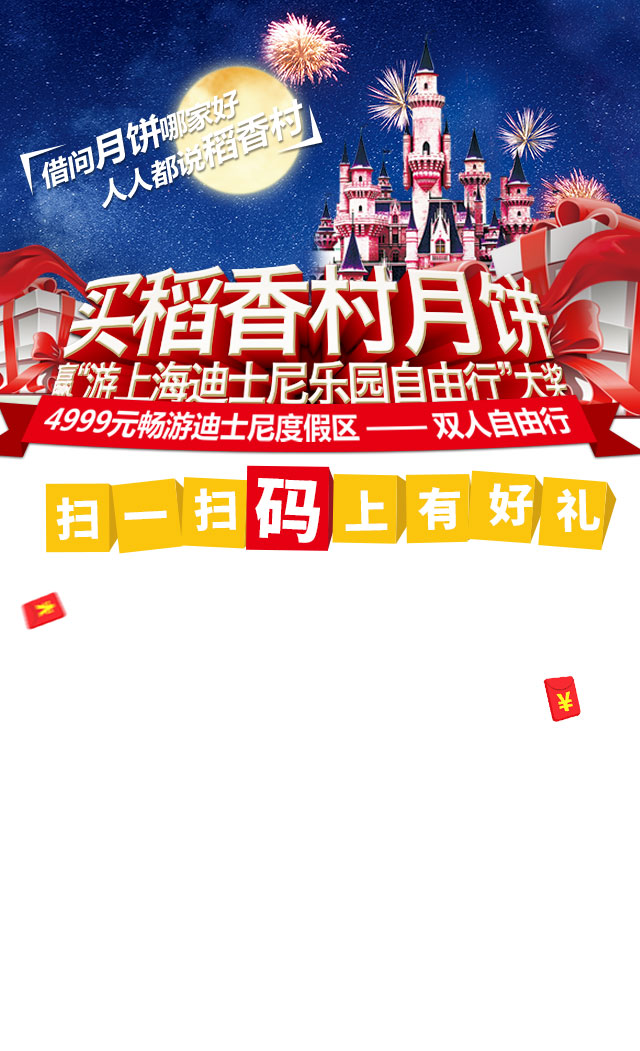
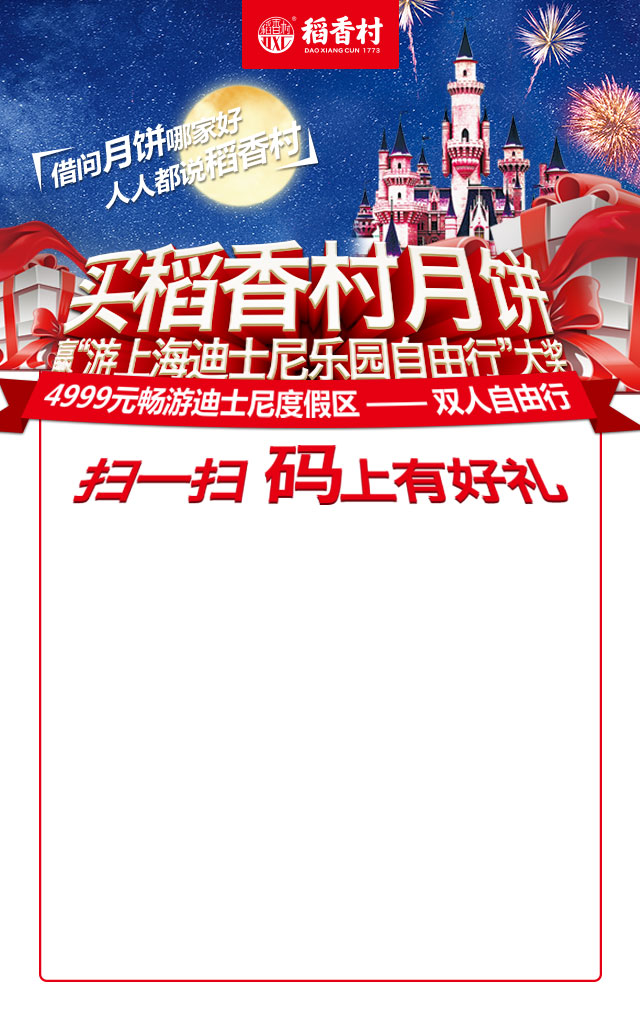
更新样式

diff --git a/weapp/apps/customerized_apps/scanlottery/templates/webapp/m_scanlottery_page.html b/weapp/apps/customerized_apps/scanlottery/templates/webapp/m_scanlottery_page.html
@@ -17,19 +17,22 @@
         background-size: 100% auto;
     }
     .wui-scanlottery-title {
-        height: 17rem;
+        height: 14rem;
     }
     .wui-scanlottery-container {
-        width: 70%;
+        width: 100%;
+    }
+    .wui-inputBlock {
         margin: 0 auto;
+        width: 70%;
         text-align: center;
         font-size: 0;
     }
-    .wui-scanlottery-container > div {
+    .wui-scanlottery-container .wui-inputBlock> div {
         text-align: center;
         margin-bottom: 20px;
     }
-    .wui-scanlottery-container .wui-scanlottery-btn {
+    .wui-scanlottery-container .wui-inputBlock .wui-scanlottery-btn {
         border:none;
         border-radius: .1rem;
         height: 3rem;
@@ -42,8 +45,8 @@
         font-family: "黑体";
         margin-top: 10px;
     }  
-    .wui-scanlottery-container input {
-        border: 1px solid #dbdbdb;
+    .wui-scanlottery-container .wui-inputBlock input {
+        border: 1px solid #e60012;
         box-sizing: border-box;
         font-size: 1.1rem;
         height: 3rem;
@@ -54,29 +57,29 @@
         padding: 0 0 0 1rem;
         font-family: "黑体";
     }
-    .wui-scanlottery-container .wui-verify-input {
+    .wui-scanlottery-container .wui-inputBlock .wui-verify-input {
         width: 37%;
         margin-right: 5%;
     }
-    .wui-scanlottery-container .wui-verify-container {
+    .wui-scanlottery-container .wui-inputBlock .wui-verify-container {
         width: 28%;
         height: 3rem;
         display: inline-block;
         vertical-align: top;
     }
-    .wui-scanlottery-container .wui-verify-refresh {
+    .wui-scanlottery-container .wui-inputBlock .wui-verify-refresh {
         width: 100%;
         height: 2.4rem;
         margin-top: 5px;
         pointer-events: none; 
     }
-    .wui-scanlottery-container > p {
+    .wui-scanlottery-container .wui-inputBlock > p {
         margin-top: 2rem;
         font-size: 1rem;
         text-align: left;
         color: #24326a;
     }
-    .wui-verify-btn {
+    .wui-inputBlock .wui-verify-btn {
         font-size: 1rem;
         height: 3rem;
         line-height: 3rem;
@@ -103,19 +106,27 @@
         background-size: 100% 100%;
     }
     .wui-guide .wui-guide-scan-desc {
-        height: 26%;
-        width: 85%;
-        margin: 0 auto; 
+        height: 11%;
+        width: 82%;
+        margin: 3rem auto 0; 
         background: url(/termite_static/img/component/scanlottery/scan_desc.png) no-repeat;
         background-size: 100% 100%;
+    }
+    .wui-scanlottery-container .wui-guide-item {
+        text-align: right;
+        margin-top: 10px;
+        padding-right: 15px;
+    }
+    .wui-guide-item img{
+        pointer-events: none;
     }
     @media screen and (max-width: 320px) {
         .wui-guide .wui-guide-top {
             height: 55%;
         }
         .wui-guide .wui-guide-scan-desc {
-            width: 90%;
-            height: 30%;
+            width: 82%;
+            height: 11%;
         }
         .wui-guide .wui-guide-scan {
             height: 19%;
@@ -124,7 +135,7 @@
             font-size: 1rem;
         }        
         .wui-scanlottery-title {
-            height: 13rem;
+            height: 10rem;
         }  
     }
     @media screen and (max-width: 320px) and (max-height: 480px) {
@@ -132,21 +143,19 @@
             background: #fff!important;            
         }
         .wui-guide .wui-guide-top {
-            height: 60%;
+            height: 56%;
         }
         .wui-guide .wui-guide-scan-desc {
-            width: 90%;
-            height: 33%;
+            width: 85%;
+            height: 13%;
+            margin-top: 1rem;
         }
         .wui-guide .wui-guide-scan {
             height: 22%;
         }
         .wui-verify-btn {
             font-size: 1rem;
-        }        
-        .wui-scanlottery-title {
-            height: 13rem;
-        }         
+        }              
     }
 </style>
 {% endblock %}
@@ -155,21 +164,26 @@
 <div class="wui-scanlottery-page wui-hidden wa-scanlottery-page">
     <div class="wui-scanlottery-title"></div>
     <div class="wui-scanlottery-container wa-scanlottery-container">
-        <div> 
-            <input type="text" placeholder="请输入姓名" class="wui-excode-input wa-name">
-        </div>
-        <div> 
-            <input type="text" placeholder="请输入手机号" class="wui-phone-input wa-phone" maxlength="11">
-        </div>
-        <div>
-            <input type="text" placeholder="验证码" class="wui-verify-input wa-verify-input" maxlength="4">
-            <div class="wui-verify-container">
-                <img class="codeimg wui-verify-refresh" src="/m/apps/scanlottery/api/m_captcha/?webapp_owner_id={{ request.webapp_owner_id}}"/>
+        <div class="wui-inputBlock">
+            <div> 
+                <input type="text" placeholder="请输入姓名" class="wui-excode-input wa-name">
             </div>
-            <span class="wa-verify-btn wui-verify-btn">点击刷新</span>
+            <div> 
+                <input type="text" placeholder="请输入手机号" class="wui-phone-input wa-phone" maxlength="11">
+            </div>
+            <div>
+                <input type="text" placeholder="验证码" class="wui-verify-input wa-verify-input" maxlength="4">
+                <div class="wui-verify-container">
+                    <img class="codeimg wui-verify-refresh" src="/m/apps/scanlottery/api/m_captcha/?webapp_owner_id={{ request.webapp_owner_id}}"/>
+                </div>
+                <span class="wa-verify-btn wui-verify-btn">点击刷新</span>
+            </div>
+            <button type="button" class="wui-submit wa-submit wui-scanlottery-btn">立即抽奖</button>
+            <p>注：请填写真实信息，参与抽奖，这样  才能保证奖品顺利到达您的手中。</p>
         </div>
-        <button type="button" class="wui-submit wa-submit wui-scanlottery-btn">立即抽奖</button>
-        <p>注：填写真实信息，参与抽奖，否则您的奖品将无法获取哦。</p>
+        <div class="wui-guide-item">
+            <img src="/termite_static/img/component/scanlottery/scan_guide_item.png" width='133px' height='90px'>
+        </div>
     </div>
 </div>
 <div class="wui-guide wa-guide">
@@ -190,9 +204,9 @@
         });
 
         //扫码
-        wx.ready(function(){
+        // wx.ready(function(){
             $('.wa-guide-scan').on('click' ,scanQrcode);
-        });
+        // });
 
         //立即抽奖
         $('.wa-submit').on('click', function(){
@@ -241,32 +255,30 @@
     });
 
     function scanQrcode(){
-        wx.scanQRCode({
-            needResult: 1, // 默认为0，扫描结果由微信处理，1则直接返回扫描结果，
-            scanType: ["qrCode"], // 可以指定扫二维码还是一维码，默认二者都有
-            success: function (res) {
-                var result = res.resultStr; // 当needResult 为 1 时，扫码返回的结果
-                scanCode = result.substr(result.length - 20);
-                W.getApi().call({
-                    app: 'm/apps/scanlottery',
-                    resource: 'scan_code_test',
-                    method: 'get',
-                    args: {
-                        webapp_owner_id: W.webappOwnerId,
-                        scan_code: scanCode
-                    },
-                    success: function(data){
+        // wx.scanQRCode({
+        //     needResult: 1, // 默认为0，扫描结果由微信处理，1则直接返回扫描结果，
+        //     scanType: ["qrCode"], // 可以指定扫二维码还是一维码，默认二者都有
+        //     success: function (res) {
+        //         var result = res.resultStr; // 当needResult 为 1 时，扫码返回的结果
+        //         scanCode = result.substr(result.length - 20);
+        //         W.getApi().call({
+        //             app: 'm/apps/scanlottery',
+        //             resource: 'scan_code_test',
+        //             method: 'get',
+        //             args: {
+        //                 webapp_owner_id: W.webappOwnerId,
+        //                 scan_code: scanCode
+        //             },
+        //             success: function(data){
                         $('.wa-guide').hide();
                         $('.wa-scanlottery-page').show();
-                        $('html').css({background: '#a5b8dc!important'});
-                        $('body').css({background: '#a5b8dc!important'});
-                    },
-                    error: function(resp){
-                        wuiAlert(resp.errMsg);
-                    }
-                });
-            }
-        });
+        //             },
+        //             error: function(resp){
+        //                 wuiAlert(resp.errMsg);
+        //             }
+        //         });
+        //     }
+        // });
     }
 </script>
 {% endblock %}
